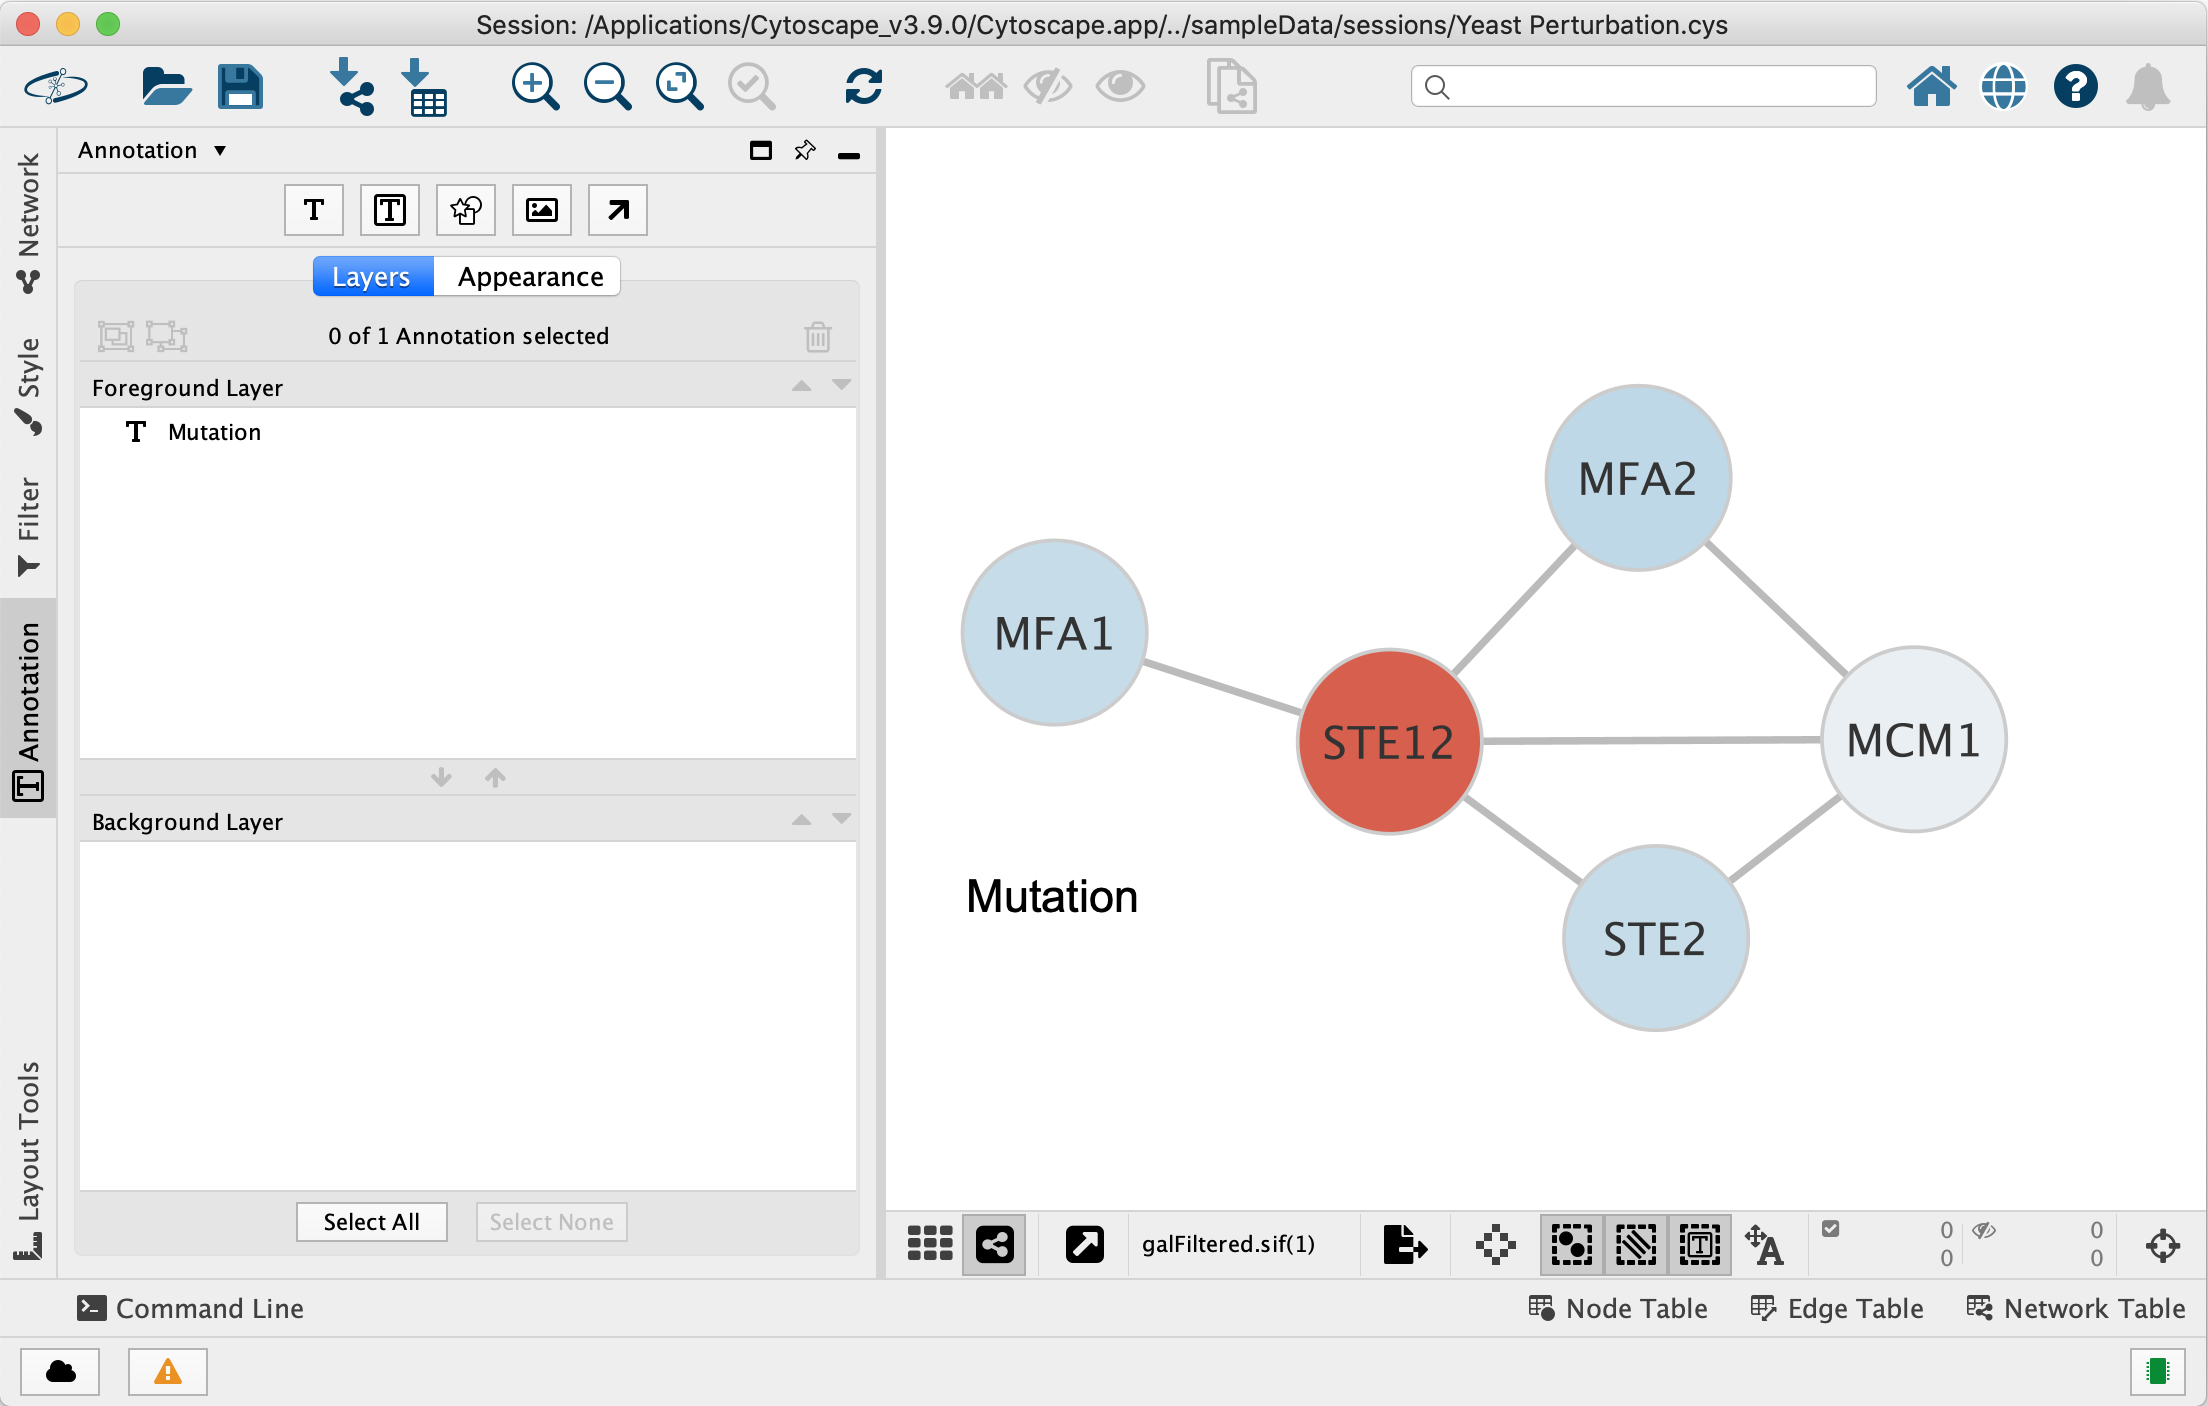
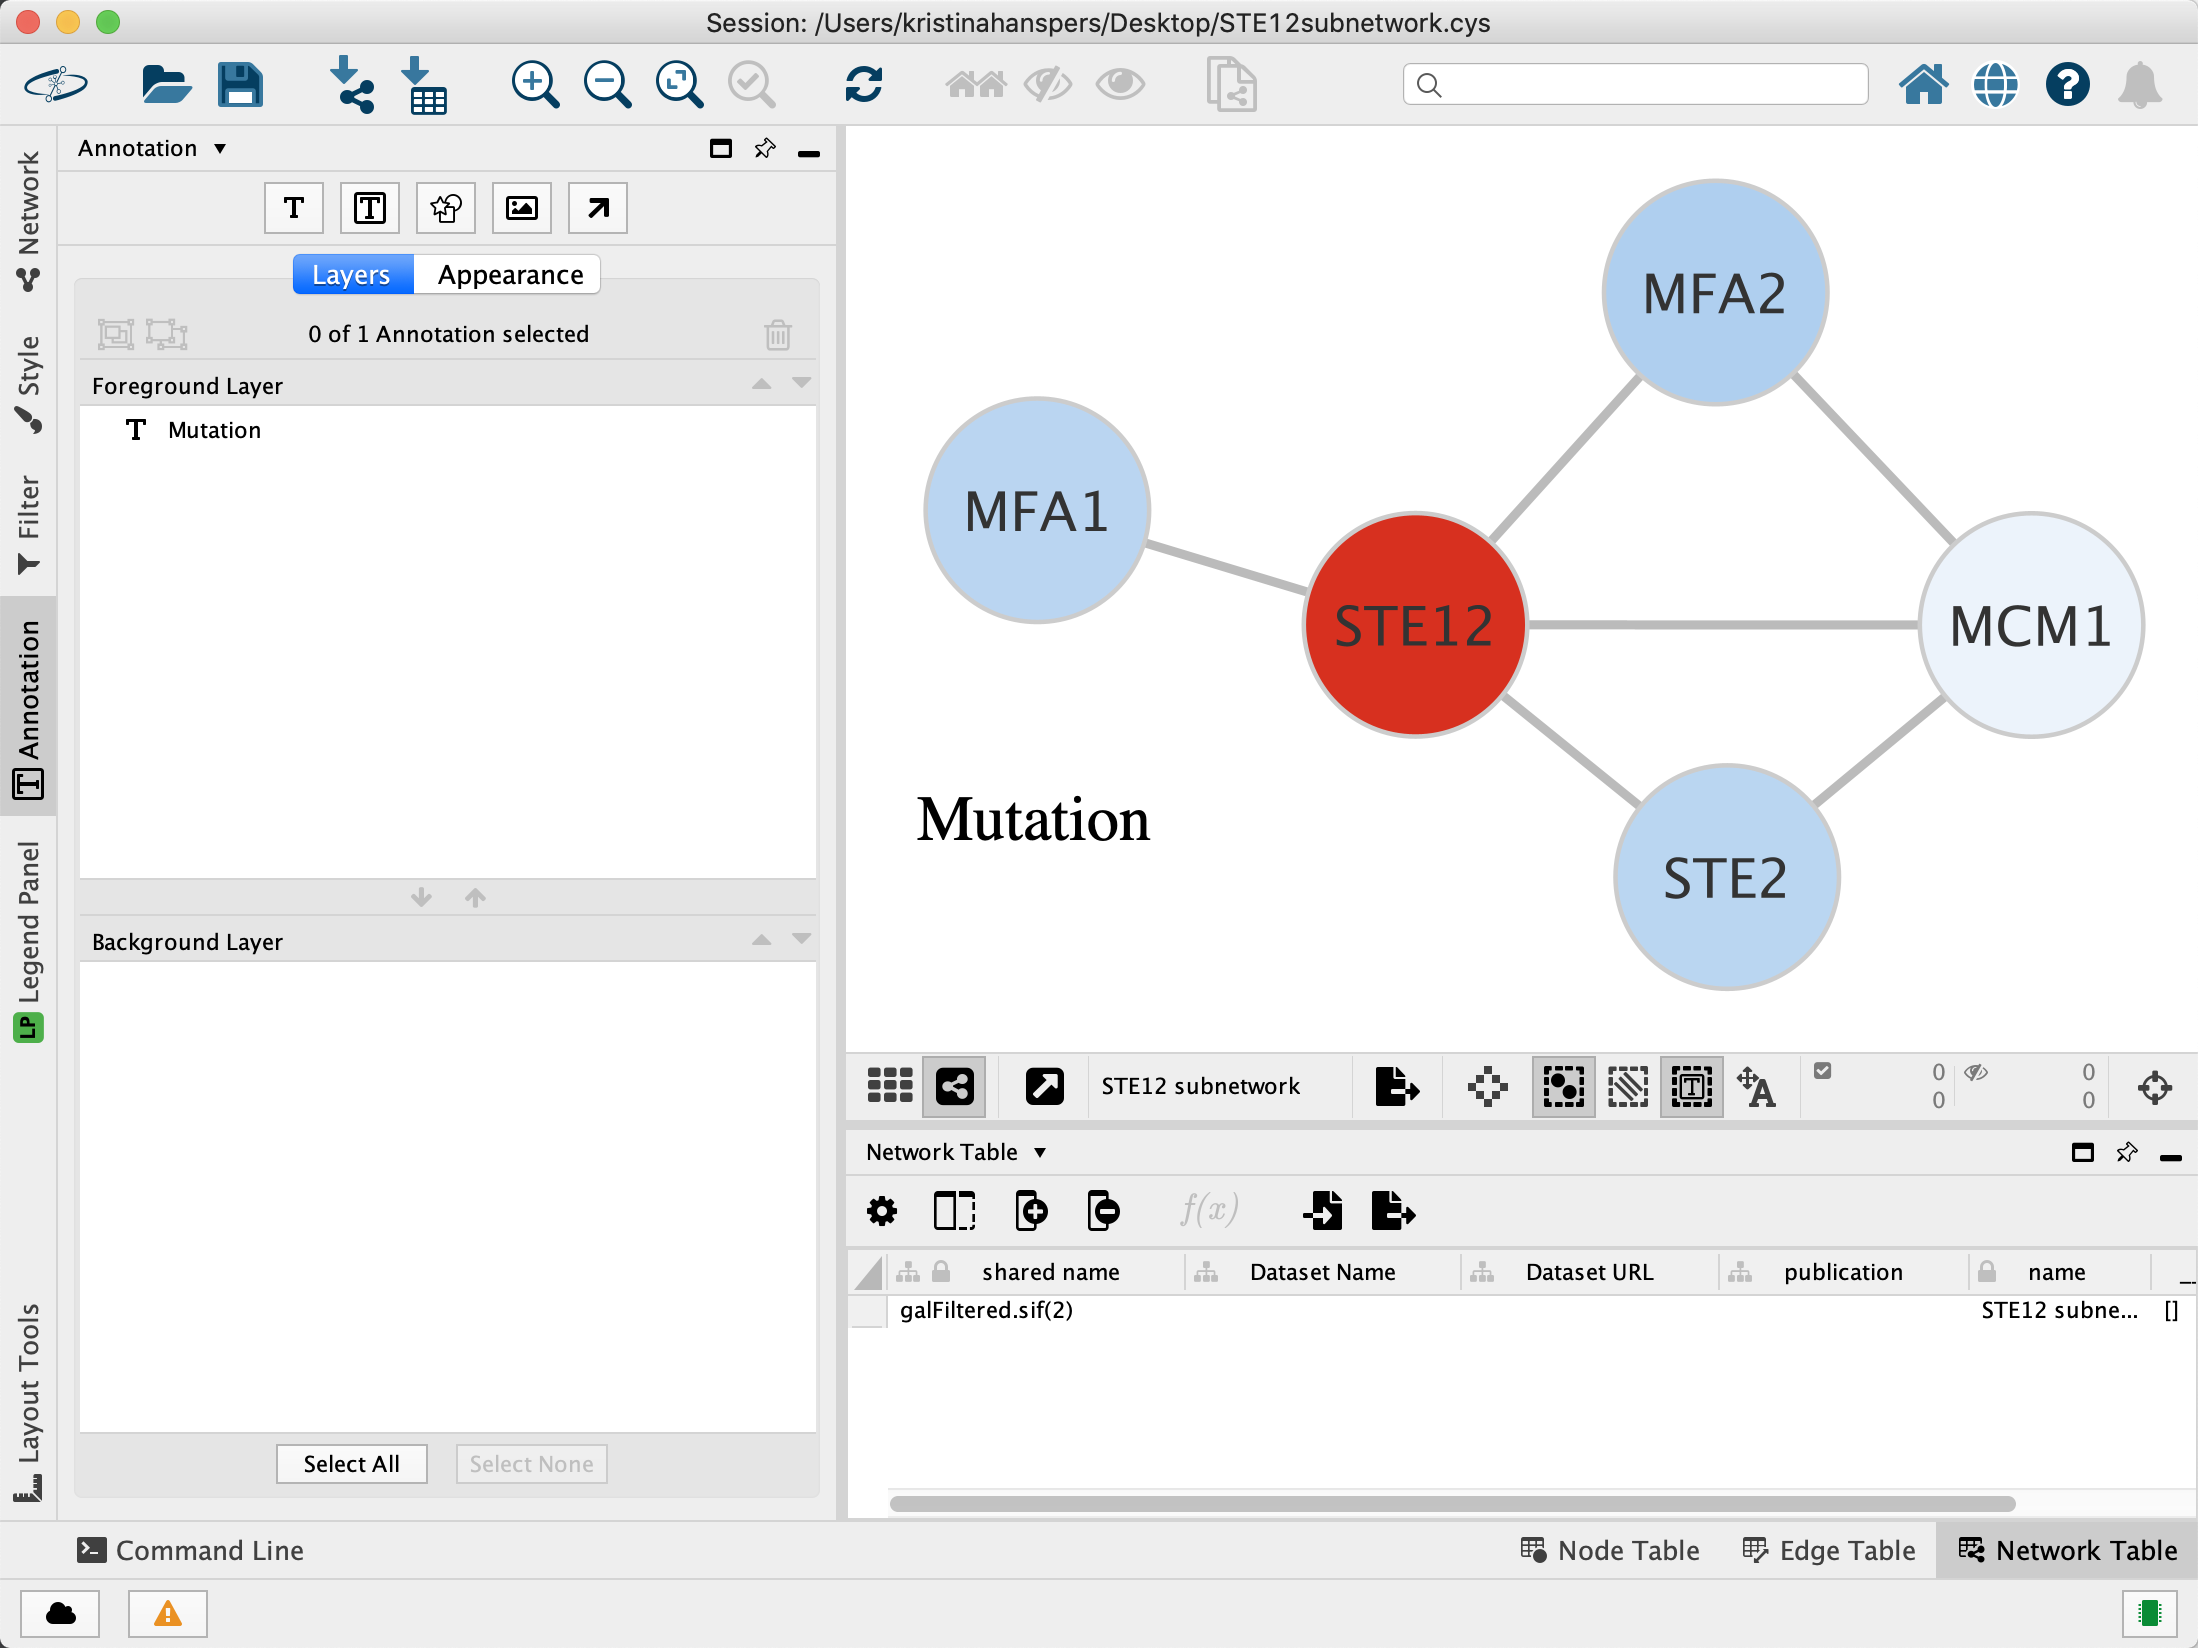
added slide and updated images

diff --git a/protocols/advanced-annotations/index.html b/protocols/advanced-annotations/index.html
@@ -29,7 +29,7 @@
 <!-- THIS IS WHERE YOUR CONTENT BEGINS -->
 <section>
     <h1>Advanced Visualization: Working with Annotations</h1>
-    <p>This short protocol reviews how to add annotations in Cytoscape.</p>
+    <p>This short protocol reviews how to add an manipulate annotations in Cytoscape.</p>
 <div class="footer" style="bottom: -8em;">
     <a href="https://github.com/cytoscape/cytoscape-tutorials/wiki"><img class="plain" src="../../assets/images/cytoscape-tutorials.png" style="height:70px;opacity:0.5"></a></div>                 
 </section>
@@ -53,7 +53,7 @@
     <h1>Annotation Panel</h1>
     <p>The <highlight>Annotation Panel</highlight> is available in the <highlight>Control Panel</highlight>. In the below example, a label and corresponding arrow has been added to indicate that one of the nodes is mutated, and a rounded rectangle shape has been added to indicate a group, and a title has been added.</p>
     
-            <img class="plain" src="../../presentations/modules/advanced-visualization/AnnotationExample.png" width="800px"/>        
+            <img class="plain" src="AnnotationExampleNew.png" width="800px"/>        
 </section>
                 
 <section>
@@ -63,6 +63,7 @@
         <li>Click anywhere on the canvas to place the label, and in the <highlight>Appearance</highlight> interface, enter the desired label and select font and color.</li>
         <li>To adjust the location of the annotation, first click the <highlight>Toggle Annotation Selection</highlight> <img class="plain" src="annotation-toggle.png" />. The annotation can now be moved by click and drag.</li>
     </ul>
+    <br /><br />
 
     <img class="plain" src="add-label.png" width="700px"/> 
 </section>
@@ -75,7 +76,17 @@
         <li>Next, click on the node or annotation you want to point the arrow to.</li>
         <li>In the <highlight>Appearance</highlight> tab of the <highlight>Annotations Panel</highlight>, select line color and arrow style and color. In this case, we will add a red line with a red t-bar end.</li>
     </ul>
-    <img class="plain" src="add-arrow.png" width="450px"/>
+    <br /><br />
+<!--
+    <img class="plain" src="add-arrow.png" width="430px"/>
+
+-->
+     <div style="float:left; width:45%">
+        <img class="plain" src="add-arrow.png" style="width:70%"/>
+    </div>
+    <div style="float:right; width:45%">
+        <img class="plain" src="add-arrow-viz.png"/>
+    </div>   
    
 </section>
                 
@@ -85,8 +96,8 @@
             <li>To add a shape annotation, click the <highlight>Shape</highlight> button at the top of the <highlight>Annotation</highlight> panel.</li>
             <li>Click anywhere on the canvas to place the shape, and in the <highlight>Appearance</highlight> interface, select the desired shape, color etc.</li>
             <li>The new shape will automatically be selected, and you can now size it to your liking and then click on the canvas to set the size.</li>
-            <li>By default the shape will be drawn on the foreground canvas, obstructing any nodes behind it. To move it to the background cavnas, select the shape in the <highlight>Layers</highlight> tab in the <highlight>Annotation</highlight> panel and click the <highlight>Push Annotations to Background Layer</highlight> arrow just below the list.</li>
-    </ul>
+            <li>By default the shape will be drawn on the foreground canvas, obstructing any nodes behind it. To move it to the background canvas, select the shape in the <highlight>Layers</highlight> tab in the <highlight>Annotation</highlight> panel and click the <highlight>Push Annotations to Background Layer</highlight> arrow just below the list.</li>
+    </ul><br /><br />
                 
       <img class="plain" src="annotation-order.png" width="700px"/>            
 </section>
@@ -98,11 +109,20 @@
         <li>Click on an annotation to bring activate the <highlight>Appearance</highlight> panel.</li>
         <li>To delete one or more annotations, select them in the <highlight>Annotations Panel</highlight> and click the delete button at the top. Alternatively, select them in the network and click <highlight>Delete</highlight> on the keyboard.</li>
         <li>As was described previously, annotations can also be moved between the background and foreground layer in the <highlight>Layers</highlight> tab in the <highlight>Annotations Panel</highlight>.</li>
+    </ul>      
+</section>
+                
+<section>
+    <h1>Rotating Annotations</h1> 
+    <p>Annotations can also be rotated:</p>
+    <ul>
+        <li>Select the shape annotation we added earlier.</li>
+        <li>In the <highlight>Appearance</highlight> panel, drag the <highlight>Rotation Angle</highlight> to about <b>-20</b>. This will rotate the object 20 degrees counter-clockwise.</li>
     </ul>
     <br /><br />
-    <p>For more information on using annotations in network visualization, see the <a href="https://cytoscape.org/cytoscape-tutorials/presentations/modules/ten-simple-rules/index.html#/0/7" target="_blank">Ten Simple Rules</a> protocol.</p>
-                
-</section>
+    <img class="plain" src="AnnotationExampleRotated.png" width="550px"/>
+    <p>For more information on using annotations in network visualization, see the <a href="https://cytoscape.org/cytoscape-tutorials/presentations/modules/ten-simple-rules/index.html#/0/7" target="_blank">Ten Simple Rules</a> protocol.</p> 
+</section>               
                 
 <!-- THIS IS WHERE YOUR CONTENT ENDS -->
 <!-- ========================================================== -->
